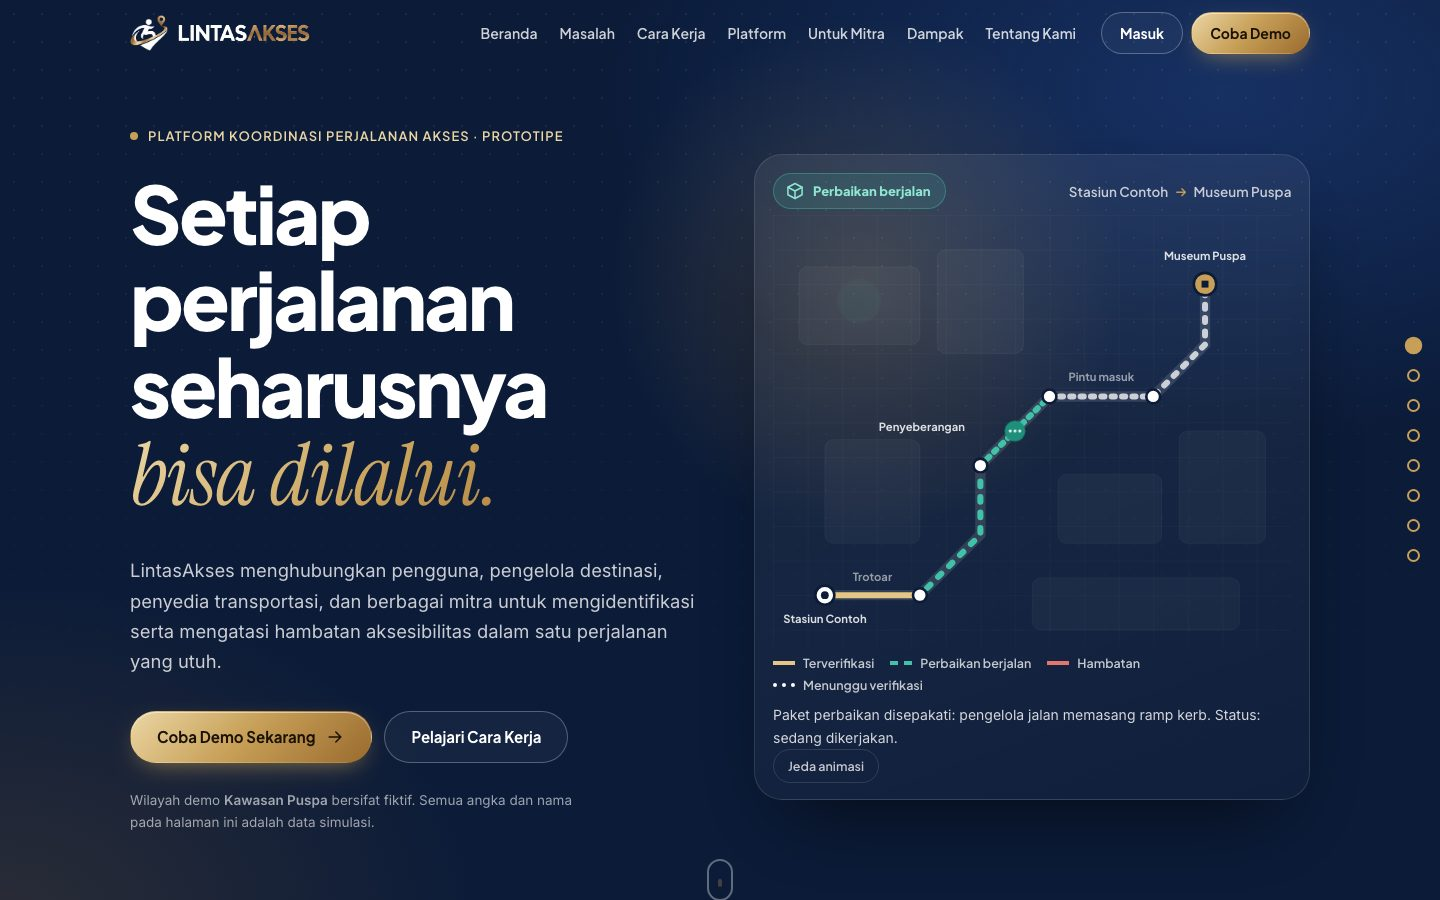
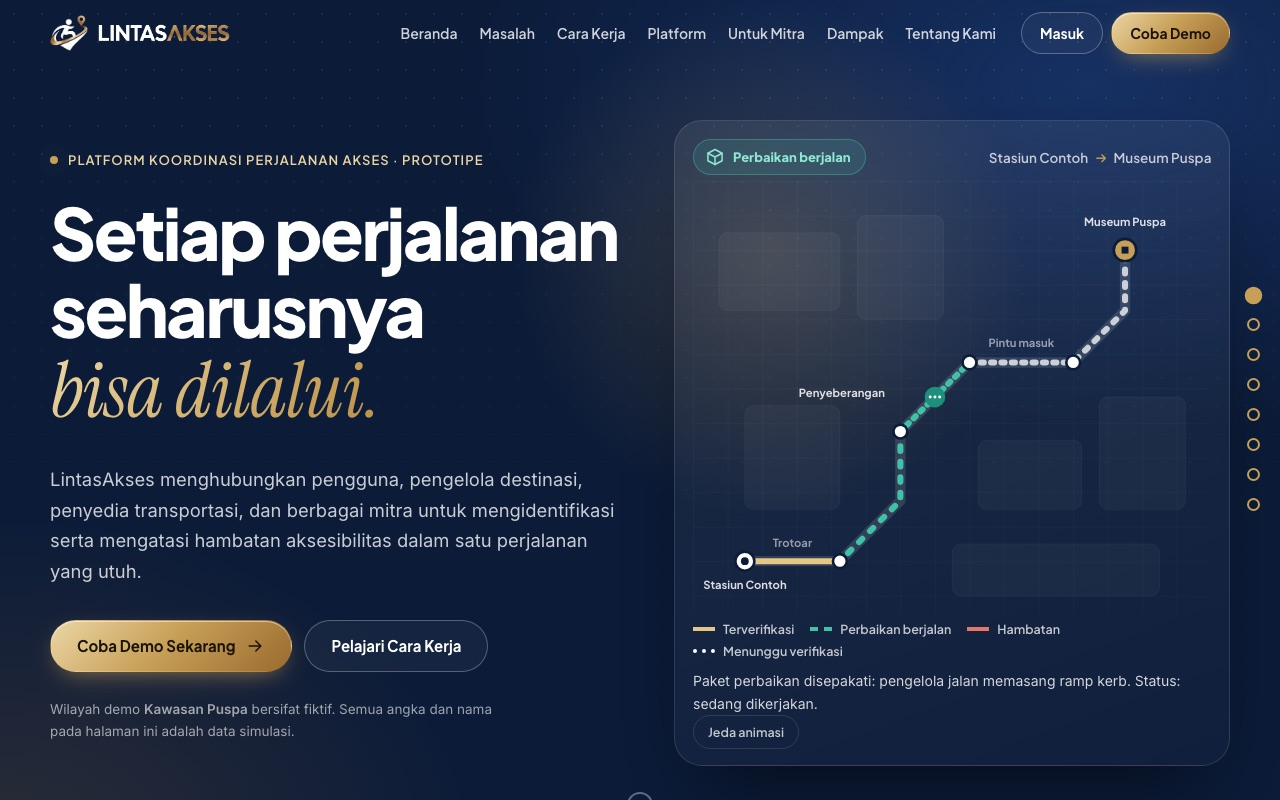
Remove floating pulse halo from hero map

diff --git a/assets/profile.js b/assets/profile.js
@@ -77,7 +77,7 @@
   });
 
   /* ---------- hero route map: status cycle ---------- */
-  const pinBg = $('.pin-bg'), pulse = $('.pulse'), pinIc = $('#pin-ic'), pin = $('#pin'), s3 = $('#s3');
+  const pinBg = $('.pin-bg'), pinIc = $('#pin-ic'), pin = $('#pin'), s3 = $('#s3');
   const chip = $('#map-state'), live = $('#map-live');
   let paused = false, timers = [];
 
@@ -88,21 +88,21 @@
   const states = {
     blocked() {
       s3.setAttribute('class', 'seg bad done-draw');
-      pinBg.style.fill = 'var(--bad)'; pulse.style.fill = 'var(--bad)'; pin.style.opacity = 1;
+      pinBg.style.fill = 'var(--bad)'; pin.style.opacity = 1;
       pinIc.setAttribute('d', 'M-4.5 -4.5l9 9M4.5 -4.5l-9 9');
       setChip('', 'Terhambat', 'i-flag');
       live.textContent = 'Segmen 3 (penyeberangan) belum punya ramp kerb. Seluruh perjalanan tertahan.';
     },
     plan() {
       s3.setAttribute('class', 'seg plan live done-draw');
-      pinBg.style.fill = '#1E8F7B'; pulse.style.fill = '#3FC2A8';
+      pinBg.style.fill = '#1E8F7B';
       pinIc.setAttribute('d', 'M-5.5 0h.01M0 0h.01M5.5 0h.01'); pinIc.setAttribute('stroke-width', '3.4');
       setChip('plan', 'Perbaikan berjalan', 'i-package');
       live.textContent = 'Paket perbaikan disepakati: pengelola jalan memasang ramp kerb. Status: sedang dikerjakan.';
     },
     ok() {
       s3.setAttribute('class', 'seg ok done-draw');
-      pinBg.style.fill = '#B88A45'; pulse.style.fill = '#C79F57';
+      pinBg.style.fill = '#B88A45';
       pinIc.setAttribute('d', 'M-5 0.5l3.5 3.5L5.5 -3.5'); pinIc.setAttribute('stroke-width', '2.6');
       setChip('ok', 'Segmen 3 terverifikasi', 'i-shield');
       live.textContent = 'Verifikator independen menyatakan segmen 3 lolos. Perjalanan kini bisa masuk tahap uji pengguna.';

diff --git a/assets/profile.css b/assets/profile.css
@@ -106,8 +106,7 @@ h1 em{display:block;font-size:1.08em;background:var(--gold-grad);-webkit-backgro
 @keyframes march{to{stroke-dashoffset:-20}}
 .n{fill:#fff;stroke:var(--ink);stroke-width:3}.n.end{fill:var(--gold2)}
 .labels .dim{fill-opacity:.55}
-.pin-bg{fill:var(--bad);transition:fill .5s}.pulse{fill:var(--bad);opacity:.3;transform-origin:center;animation:pulse 2s infinite;transition:fill .5s}
-@keyframes pulse{0%{transform:scale(.7);opacity:.5}100%{transform:scale(1.7);opacity:0}}
+.pin-bg{fill:var(--bad);transition:fill .5s}
 #pin{transition:opacity .4s}
 figcaption{margin-top:8px}
 .legend{list-style:none;padding:0;display:flex;flex-wrap:wrap;gap:6px 16px;font:600 12.5px var(--f-d);color:rgba(255,255,255,.75)}

diff --git a/index.html b/index.html
@@ -127,7 +127,7 @@
           <text x="500" y="52" text-anchor="middle">Museum Puspa</text>
         </g>
         <g id="pin" transform="translate(280 250)">
-          <circle class="pulse" r="16"/><circle r="12" class="pin-bg"/>
+          <circle r="12" class="pin-bg"/>
           <path id="pin-ic" d="M-4.5 -4.5l9 9M4.5 -4.5l-9 9" stroke="#fff" stroke-width="2.4" stroke-linecap="round"/>
         </g>
       </svg>
